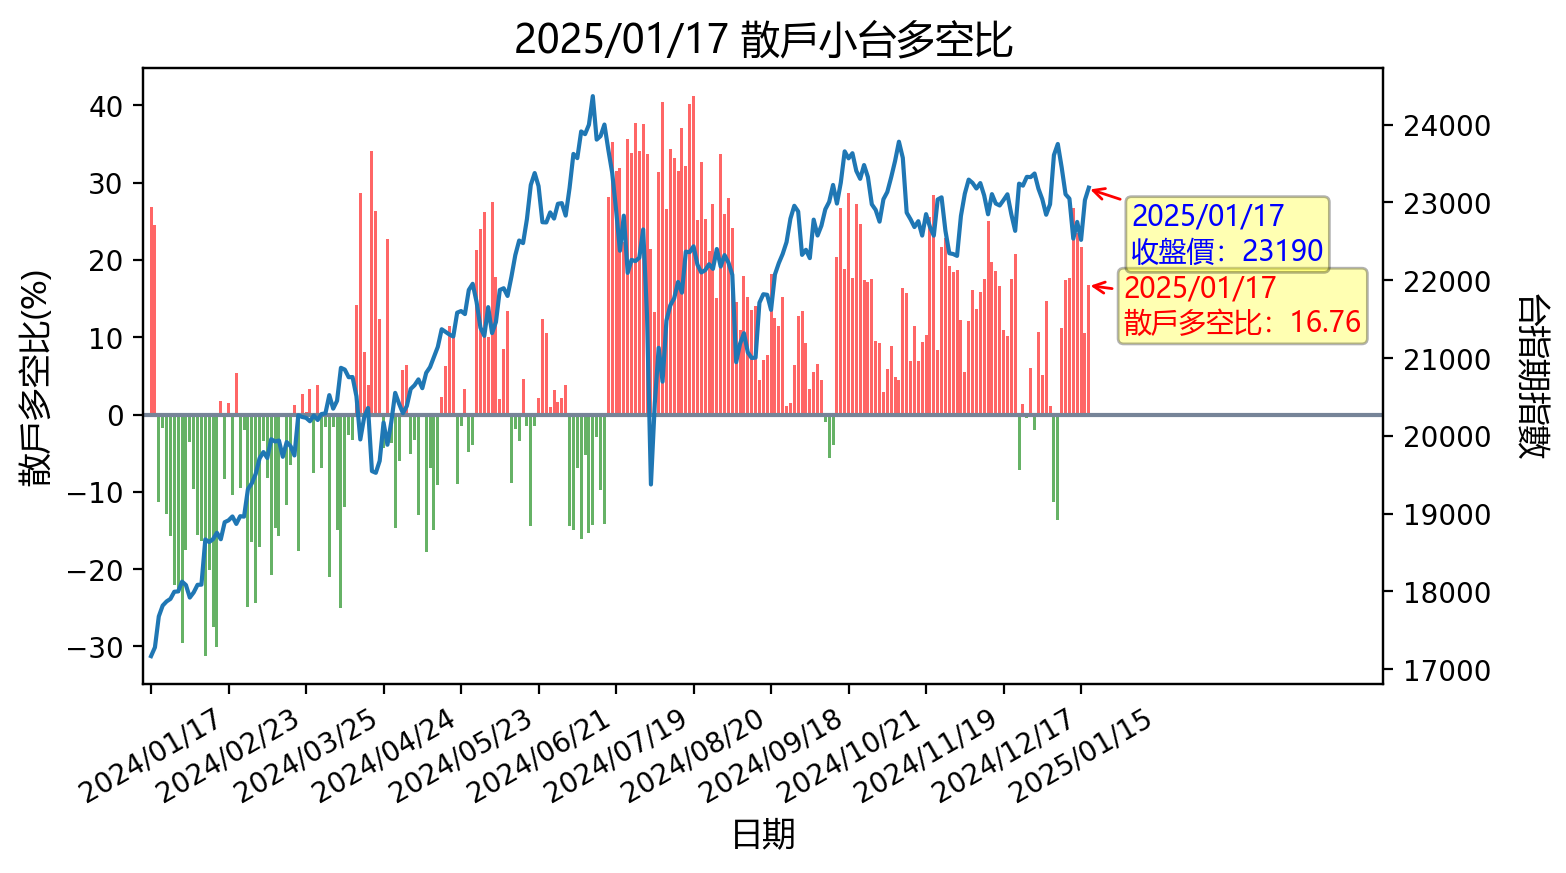
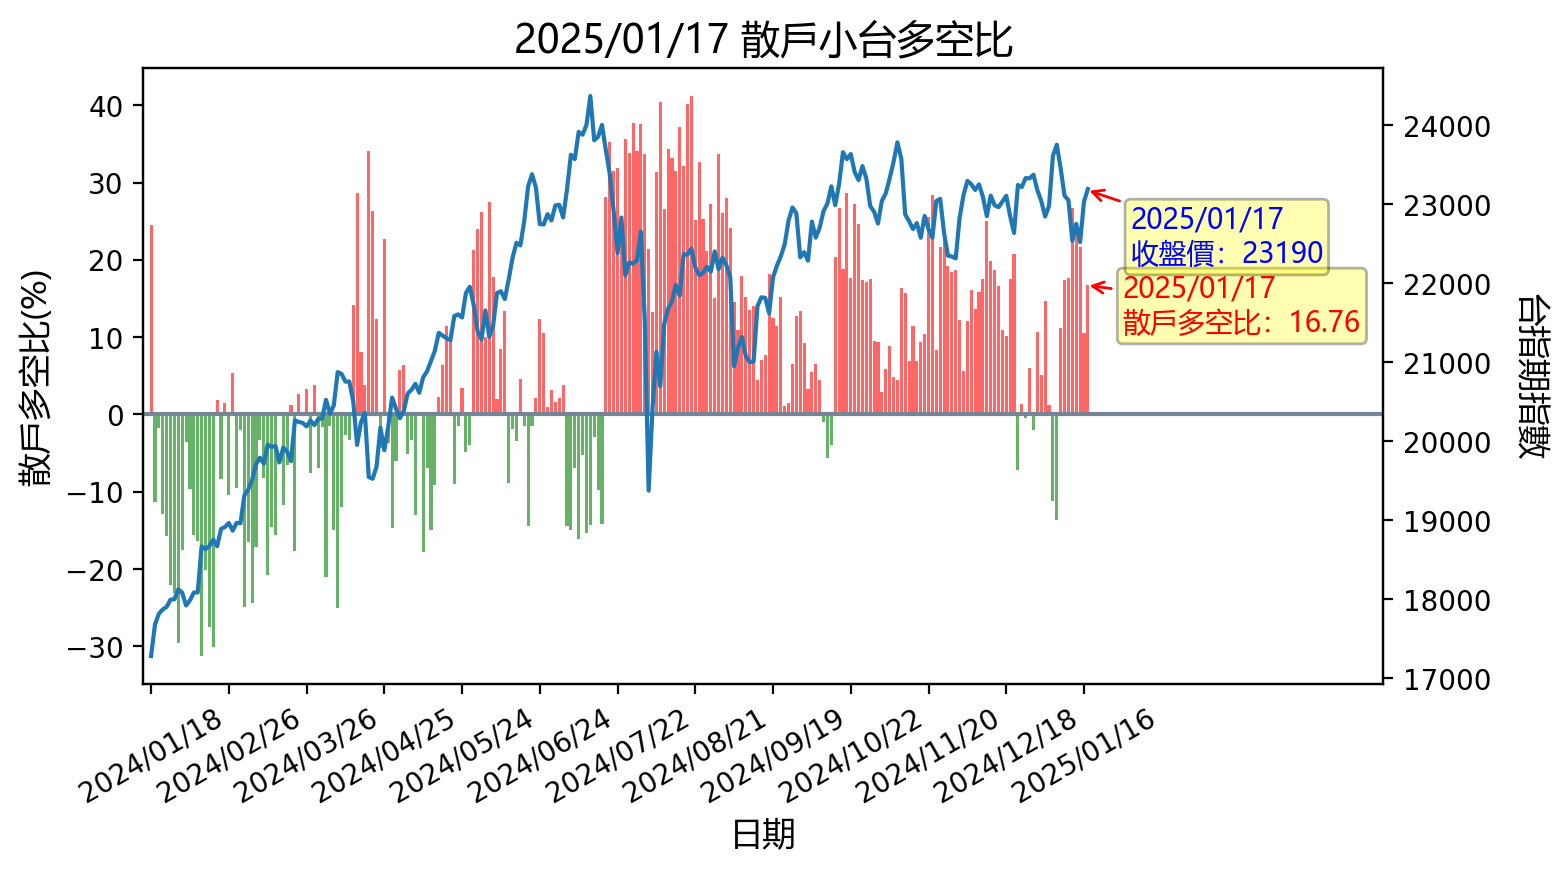
更新時間: Sat Jan 18 16:30:11 CST 2025

diff --git a/README.md b/README.md
@@ -1,12 +1,12 @@
-## 20250117 台指期「預估換倉成本」
+## 20250118 台指期「預估換倉成本」
 ![](images/txfcost.png)
 
-## 20250117 台指期「散戶小台多空比」
+## 20250118 台指期「散戶小台多空比」
 ![](images/bbiri.png)
 
-## 20250117 台指選擇權「Put/Call Ratios」
+## 20250118 台指選擇權「Put/Call Ratios」
 ![](images/pcratio.png)
 
-## 20250117 台指期「大額交易人」
+## 20250118 台指期「大額交易人」
 ![](images/blocktrade.png)
 
